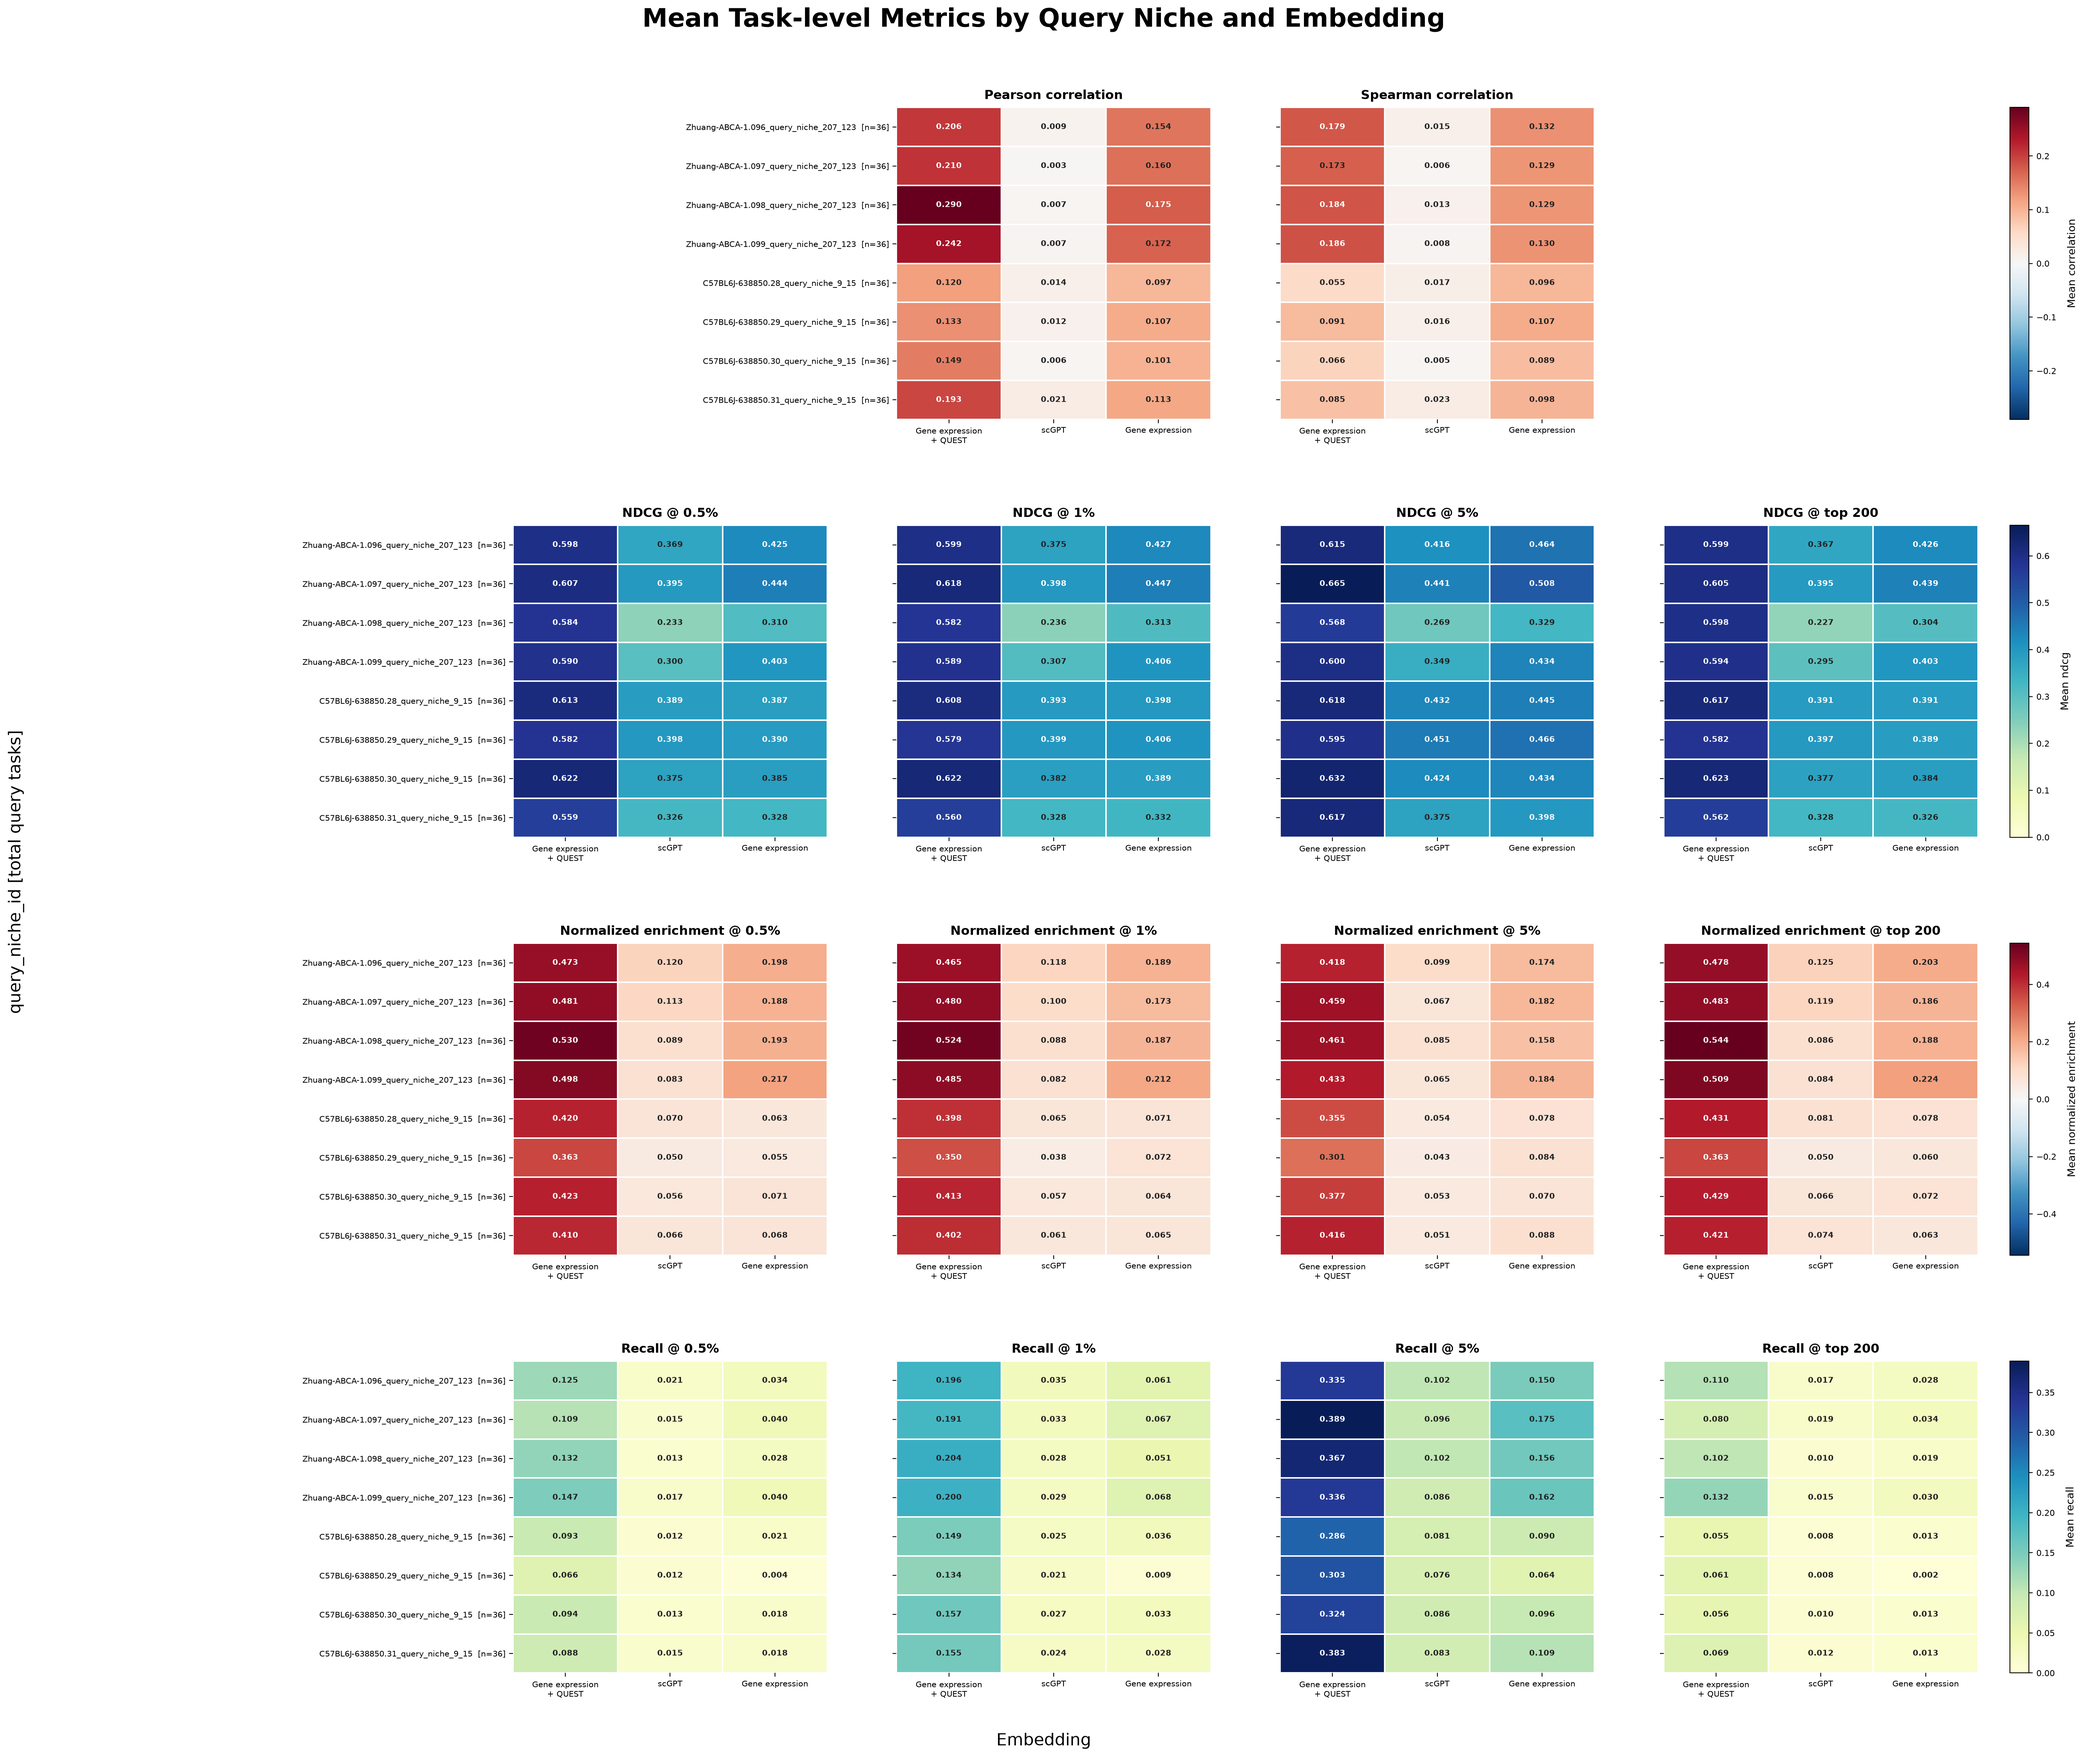
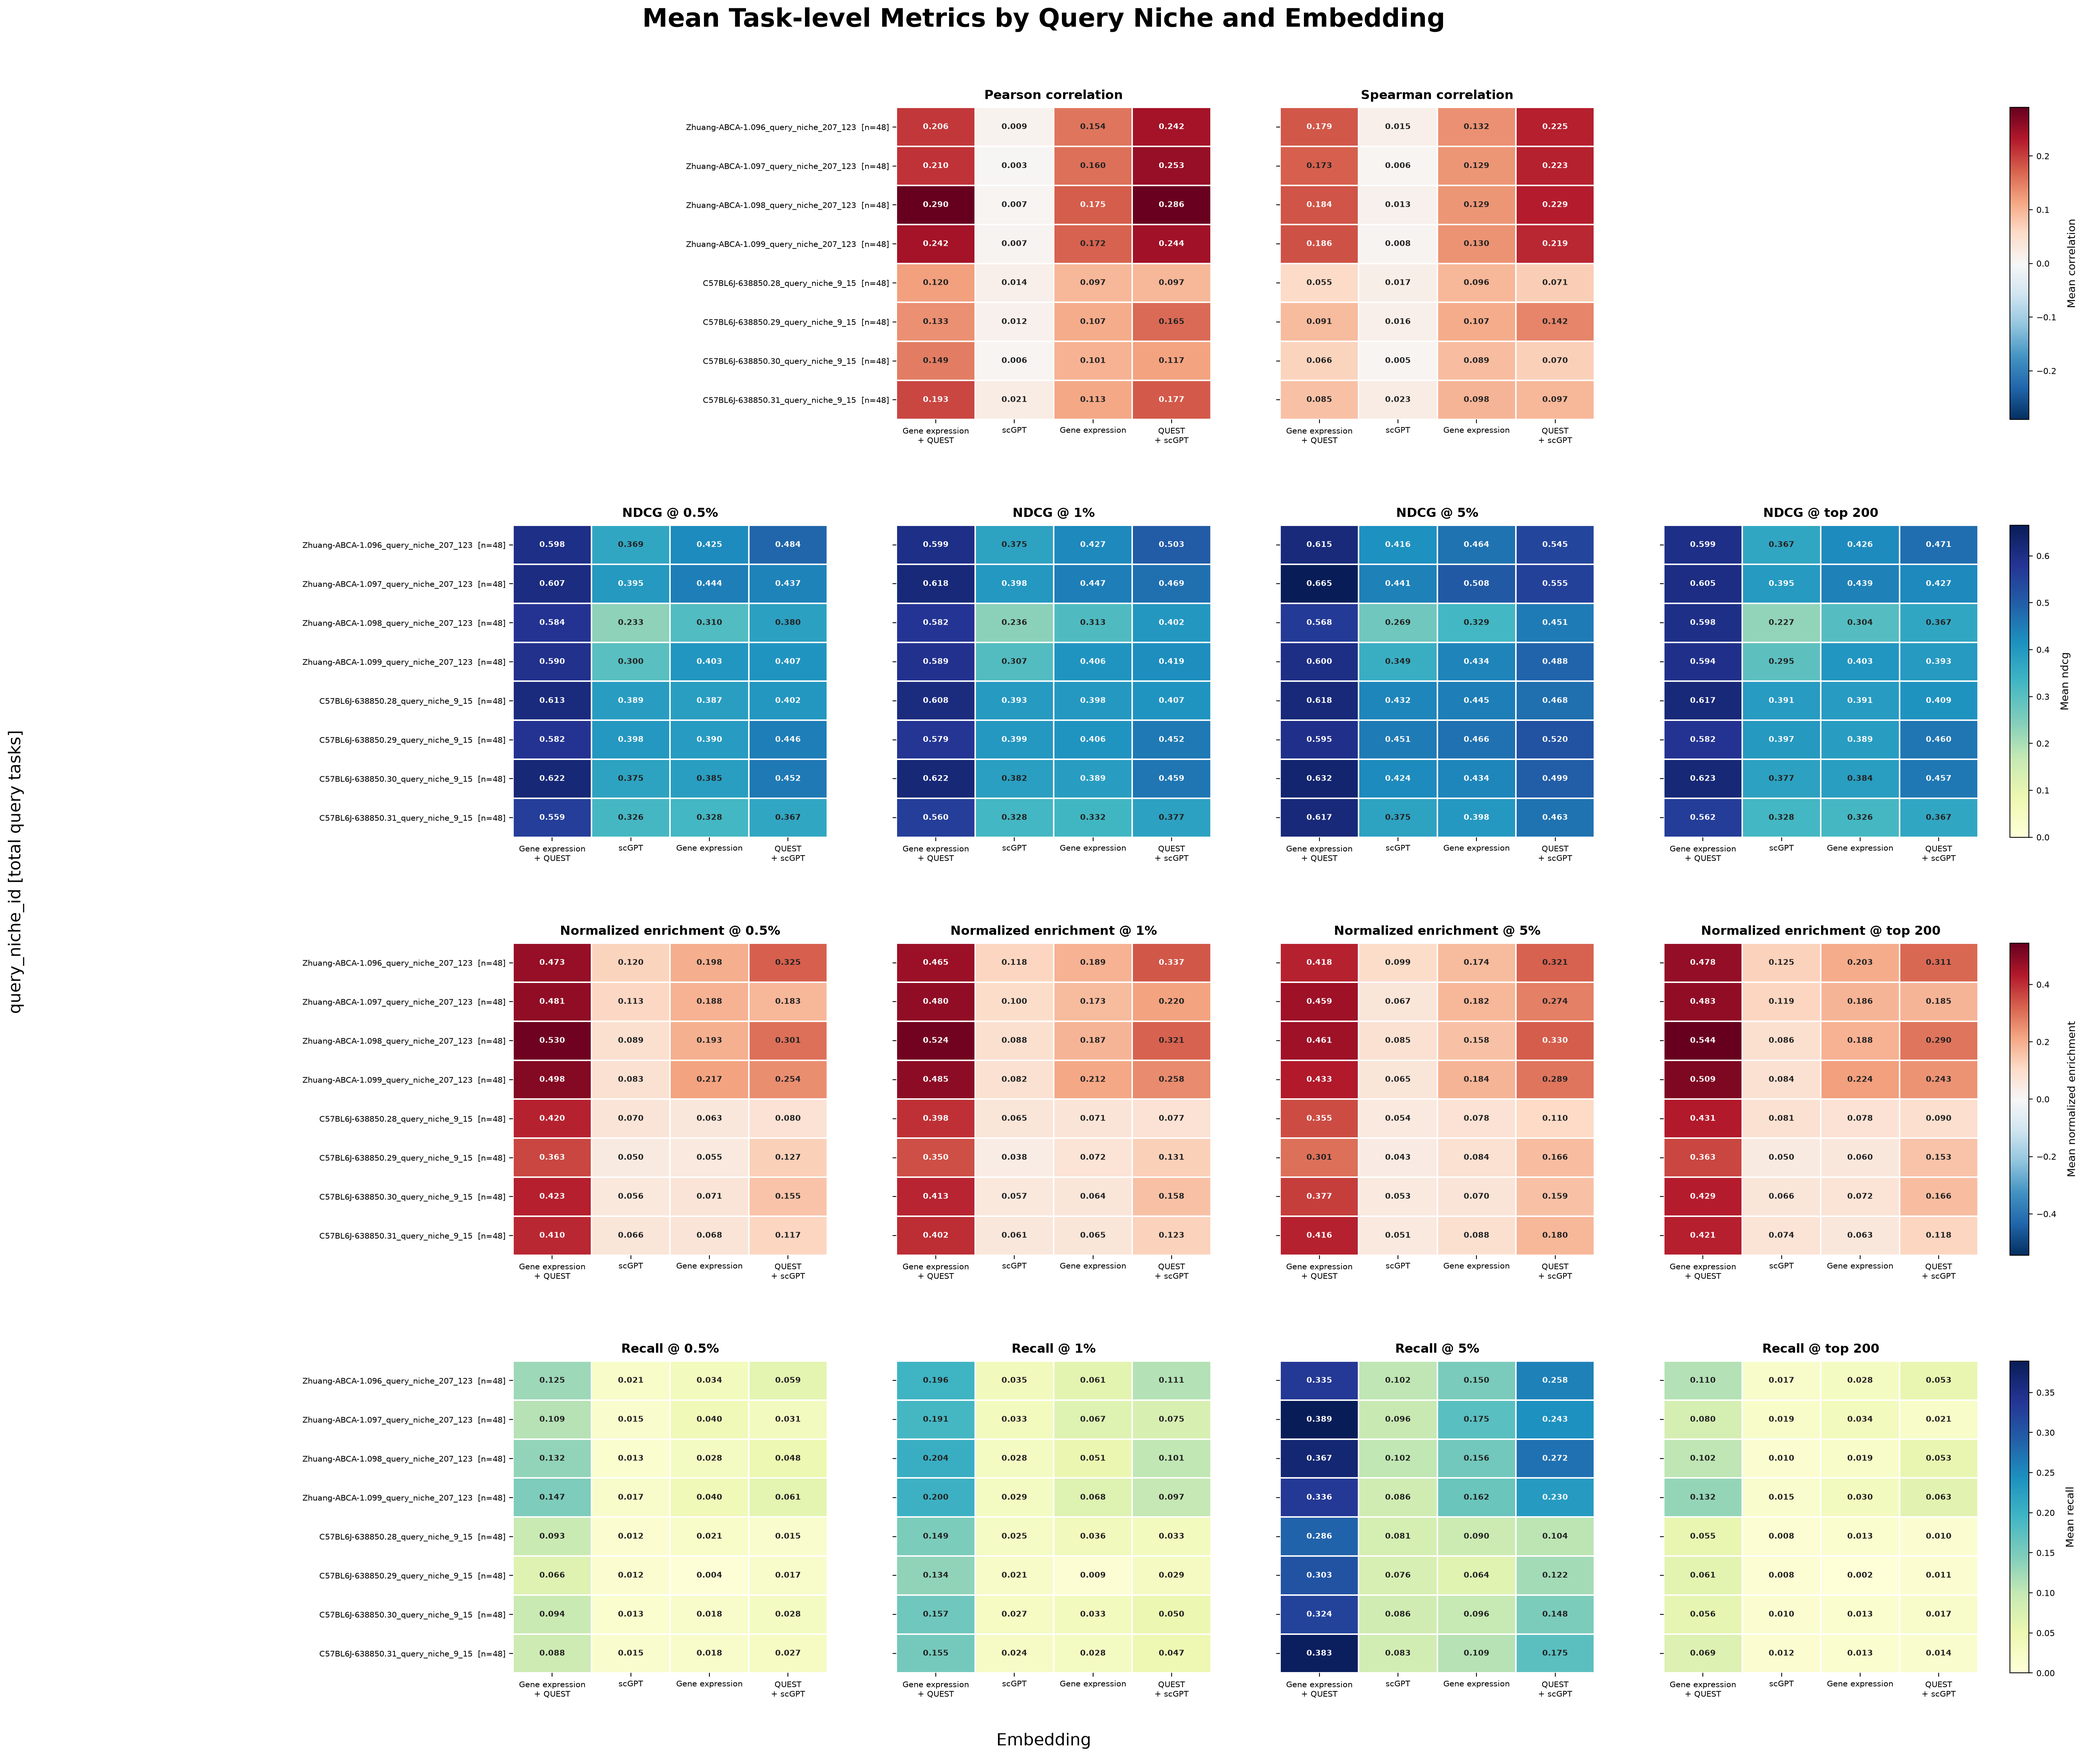
Add QUEST-scGPT benchmark evaluation

diff --git a/experiment/draw_systematic_quantitative_benchmark.py b/experiment/draw_systematic_quantitative_benchmark.py
@@ -64,9 +64,12 @@ EMBEDDING_LABELS = {
     "gene_expr_quest": "Gene expression\n+ QUEST",
     "scgpt": "scGPT",
     "gene_expr": "Gene expression",
+    "quest_scgpt": "QUEST\n+ scGPT",
 }
-COLORS = ("#4C78A8", "#F58518", "#54A24B")
-MARKERS = ("o", "s", "D")
+COLORS = ("#4C78A8", "#F58518", "#54A24B", "#B279A2")
+MARKERS = ("o", "s", "D", "^")
+EXPECTED_NICHE_COUNT = 8
+EXPECTED_EMBEDDING_COUNT = len(EMBEDDING_LABELS)
 
 DOT_PLOT_METRIC_LABELS = {
     "pearson": "Pearson",
@@ -204,9 +207,10 @@ def load_aggregated_metrics(
                     raise ValueError(f"{path}:{line_number}: {metric} must be finite")
                 values[metric][embedding] = value
 
-    if len(embedding_order) != 3:
+    if len(embedding_order) != EXPECTED_EMBEDDING_COUNT:
         raise ValueError(
-            "Expected exactly 3 embedding types in the aggregated metrics; "
+            f"Expected exactly {EXPECTED_EMBEDDING_COUNT} embedding types in the "
+            "aggregated metrics; "
             f"found {len(embedding_order)}: {embedding_order}"
         )
     return values, embedding_order
@@ -252,9 +256,13 @@ def load_niche_embedding_metrics(
             if embedding not in embedding_order:
                 embedding_order.append(embedding)
 
-    if len(niche_order) != 8 or len(embedding_order) != 3:
+    if (
+        len(niche_order) != EXPECTED_NICHE_COUNT
+        or len(embedding_order) != EXPECTED_EMBEDDING_COUNT
+    ):
         raise ValueError(
-            "Expected an 8 niche x 3 embedding benchmark; found "
+            f"Expected an {EXPECTED_NICHE_COUNT} niche x "
+            f"{EXPECTED_EMBEDDING_COUNT} embedding benchmark; found "
             f"{len(niche_order)} niches x {len(embedding_order)} embeddings"
         )
 
@@ -321,13 +329,14 @@ def load_niche_embedding_metrics(
 def _validate_embeddings(
     values_by_embedding: dict[str, list[float]], embedding_order: list[str]
 ) -> list[str]:
-    """Return the three embeddings represented in the metric data."""
+    """Return all expected embeddings represented in the metric data."""
     present_embeddings = [
         embedding for embedding in embedding_order if embedding in values_by_embedding
     ]
-    if len(present_embeddings) != 3:
+    if len(present_embeddings) != EXPECTED_EMBEDDING_COUNT:
         raise ValueError(
-            "Expected exactly 3 embedding types in the evaluation results; "
+            f"Expected exactly {EXPECTED_EMBEDDING_COUNT} embedding types in the "
+            "evaluation results; "
             f"found {len(present_embeddings)}: {present_embeddings}"
         )
     return present_embeddings
@@ -501,8 +510,14 @@ def draw_aggregated_metrics_dot_plot(
     missing_metrics = set(METRIC_LABELS) - set(metrics)
     if missing_metrics:
         raise ValueError(f"Missing aggregated metrics: {sorted(missing_metrics)}")
-    if len(embedding_order) != 3 or len(set(embedding_order)) != 3:
-        raise ValueError("Dot plot requires exactly 3 unique embedding types")
+    if (
+        len(embedding_order) != EXPECTED_EMBEDDING_COUNT
+        or len(set(embedding_order)) != EXPECTED_EMBEDDING_COUNT
+    ):
+        raise ValueError(
+            f"Dot plot requires exactly {EXPECTED_EMBEDDING_COUNT} unique "
+            "embedding types"
+        )
 
     for metric in METRIC_LABELS:
         missing_embeddings = set(embedding_order) - set(metrics[metric])
@@ -584,7 +599,7 @@ def draw_aggregated_metrics_dot_plot(
         labels,
         loc="upper center",
         bbox_to_anchor=(0.5, 0.945),
-        ncols=3,
+        ncols=len(embedding_order),
         frameon=False,
         fontsize=10,
         handletextpad=0.5,
@@ -606,8 +621,14 @@ def draw_all_metrics_heatmaps(
 ) -> None:
     """Draw all metric means as annotated niche-by-embedding heatmaps."""
     expected_shape = (len(niche_order), len(embedding_order))
-    if len(niche_order) != 8 or len(embedding_order) != 3:
-        raise ValueError("Heatmaps require exactly 8 niches and 3 embeddings")
+    if (
+        len(niche_order) != EXPECTED_NICHE_COUNT
+        or len(embedding_order) != EXPECTED_EMBEDDING_COUNT
+    ):
+        raise ValueError(
+            f"Heatmaps require exactly {EXPECTED_NICHE_COUNT} niches and "
+            f"{EXPECTED_EMBEDDING_COUNT} embeddings"
+        )
     if len(task_counts) != len(niche_order):
         raise ValueError("task_counts must contain one value per niche")
     missing_metrics = set(METRIC_LABELS) - set(mean_metrics)
@@ -835,7 +856,8 @@ def main() -> None:
     )
     print(
         f"Wrote {heatmap_output_path} "
-        f"({len(METRIC_LABELS)} metrics, 8 niches x 3 embeddings)"
+        f"({len(METRIC_LABELS)} metrics, {len(niche_order)} niches x "
+        f"{len(heatmap_embeddings)} embeddings)"
     )
 
     aggregated_metrics, aggregated_embedding_order = load_aggregated_metrics(

diff --git a/experiment/analyze_evaluation.py b/experiment/analyze_evaluation.py
@@ -41,15 +41,13 @@ import numpy as np
 from scipy.stats import pearsonr, spearmanr
 
 EXPERIMENT_DIR = Path(__file__).resolve().parent
-DEFAULT_QUERY_MANIFEST = EXPERIMENT_DIR / "query_manifest.csv"
+DEFAULT_QUERY_MANIFEST = EXPERIMENT_DIR / "manifests" / "query_manifest.csv"
 DEFAULT_RAW_RESULTS_DIR = EXPERIMENT_DIR / "raw_results"
 DEFAULT_OUTPUT = (
     EXPERIMENT_DIR / "evaluation_results" / "evaluation_metrics_per_query.csv"
 )
 DEFAULT_AGGREGATE_OUTPUT = (
-    EXPERIMENT_DIR
-    / "evaluation_results"
-    / "evaluation_metrics_by_embedding_type.csv"
+    EXPERIMENT_DIR / "evaluation_results" / "evaluation_metrics_by_embedding_type.csv"
 )
 OUTPUT_COLUMNS = (
     "query_id",
@@ -373,7 +371,9 @@ def aggregate_metrics_by_embedding_type(
     for row in rows:
         query_id = int(row["query_id"])
         if query_id not in manifest_query_ids:
-            raise KeyError(f"query_id={query_id} does not exist in {query_manifest_path}")
+            raise KeyError(
+                f"query_id={query_id} does not exist in {query_manifest_path}"
+            )
         if query_id in seen_query_ids:
             raise ValueError(f"Duplicate evaluation row for query_id={query_id}")
         seen_query_ids.add(query_id)

diff --git a/experiment/draw_representative_query_results.py b/experiment/draw_representative_query_results.py
@@ -81,6 +81,7 @@ EMBEDDING_LABELS = {
     "gene_expr_quest": "Gene expression + QUEST",
     "scgpt": "scGPT",
     "gene_expr": "Gene expression",
+    "quest_scgpt": "QUEST + scGPT",
 }
 
 
